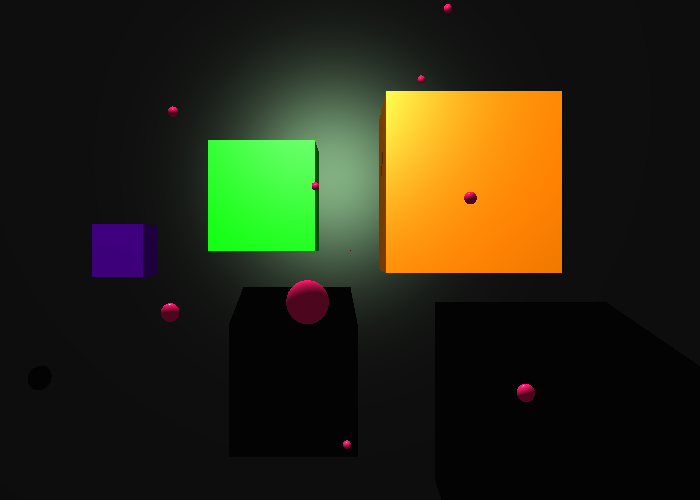
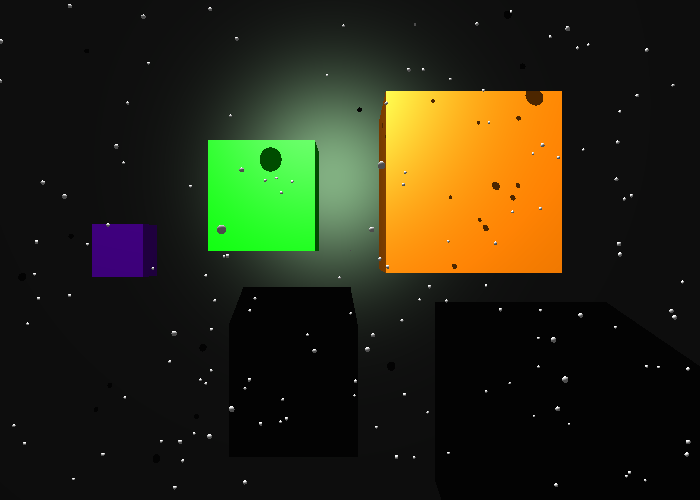
soft shadows

diff --git a/src/a4.cpp b/src/a4.cpp
@@ -191,9 +191,9 @@ void render(// What to render
 	// root->add_child(ps);
 
 	int framerate = 25;
-	const double FRAME_COUNT = 1165;//framerate * 71.7;
+	const double FRAME_COUNT = 1;//1165;//framerate * 71.7;
 	MasterTempo masterTempo = MasterTempo("../data/1.mid", 180.0, framerate, 1);
-	int SSAAFactor = 1;
+	int SSAAFactor = 2;
 	height *= SSAAFactor;
 	width *= SSAAFactor;
 
@@ -310,25 +310,29 @@ void render(// What to render
 
 		root->tick(&masterTempo);
 	}
-	
-	stringstream ss;
-	ss << "ffmpeg -i \%09d.png -framerate ";
-	ss << framerate;
-	ss << " -y -f avi -qscale 1 -s " << width/SSAAFactor << "x" << height/SSAAFactor;
-	ss << " temp.avi";
-	const char* ffmpegCommand = ss.str().c_str();
-	cout << "\n\n";
-	system(ffmpegCommand);
 
-	stringstream sa;
-	sa << "ffmpeg -i temp.avi -i audio.wav -y -f avi -b 1.5M -s " << width/SSAAFactor << "x" << height/SSAAFactor << " " << filename << ".avi";
-	const char* ffmpegAudio = sa.str().c_str();
+	if(FRAME_COUNT > 1){
 	
-	cout << "\n\n";
-	system(ffmpegAudio);
-	//system("rm *.png");
-	system("clear");
-	cout << "Render complete: " << filename << ".avi\n";
+		stringstream ss;
+		ss << "ffmpeg -i \%09d.png -framerate ";
+		ss << framerate;
+		ss << " -y -f avi -qscale 1 -s " << width/SSAAFactor << "x" << height/SSAAFactor;
+		ss << " temp.avi";
+		const char* ffmpegCommand = ss.str().c_str();
+		cout << "\n\n";
+		system(ffmpegCommand);
+
+		stringstream sa;
+		sa << "ffmpeg -i temp.avi -i audio.wav -y -f avi -b 1.5M -s " << width/SSAAFactor << "x" << height/SSAAFactor << " " << filename << ".avi";
+		const char* ffmpegAudio = sa.str().c_str();
+		
+		cout << "\n\n";
+		system(ffmpegAudio);
+		//system("rm *.png");
+		system("clear");
+		cout << "Render complete: " << filename << ".avi\n";
+
+	}
 }
 
 void applyCocaineFilter(double* rbuf, int bufheight, int bufwidth){
@@ -429,8 +433,35 @@ Vector3D shade(Vector3D fc, std::list<Light*> lights, Colour ambient, Intersecti
 			point[2] + fp2*normal[2]);
 		Vector3D pointToLight = lpos - point;
 		pointToLight.normalize();
-		Intersection* shadow = root->intersect(point2, pointToLight, Matrix4x4(), mt);
-		if(shadow == NULL){
+		//Intersection* shadow = root->intersect(point2, pointToLight, Matrix4x4(), mt);
+
+		Intersection* shadow;
+		int resolution = 50;
+		double lightSize = 40.0;
+		double spread = 0.7;
+		double shadowWeight = 0;
+		double xi, yi, zi;
+		
+
+		for(int x = 0; x < resolution; x++){
+			double xShift = (std::rand()  * spread/RAND_MAX - (spread/2)/RAND_MAX) * lightSize;
+			double yShift = (std::rand()  * spread/RAND_MAX - (spread/2)/RAND_MAX) * lightSize;
+			double zShift = (std::rand()  * spread/RAND_MAX - (spread/2)/RAND_MAX) * lightSize;
+			//for(int y = 0; y < resolution; y++){
+				//for(int z = 0; z < resolution; z++){
+					//xi = lightSize + xShift;//((double)x)/resolution;// + xShift;
+					//yi = lightSize + yShift;
+					//zi = lightSize * ((double)z)/resolution;// + zShift;
+					shadow = root->intersect(point2, Point3D(lpos[0]+xShift, lpos[1]+yShift, lpos[2]+zShift) - point2, Matrix4x4(), mt);
+					if(shadow != NULL){
+						shadowWeight += 1.0 / (resolution);//*resolution);
+						free(shadow);
+					}
+				//}
+			//}
+		}
+
+		if(shadowWeight < 1){
 			Colour lightColour = (*I)->colour;
 			Vector3D lcol = Vector3D(lightColour.R(), lightColour.G(), lightColour.B());
 	    	Vector3D iv = lpos - point; // incident vector
@@ -478,11 +509,8 @@ Vector3D shade(Vector3D fc, std::list<Light*> lights, Colour ambient, Intersecti
 	    	blinnSpec = blinnTerm * specColour;
 
 
-	    	fc = fc + diffuse + (shininess != 0 ? blinnSpec : 0*blinnSpec);
+	    	fc = fc + (1.0 - shadowWeight)*(diffuse + (shininess != 0 ? blinnSpec : 0*blinnSpec));
 	    	//fc = Vector3D(blinnSpec[0], spec[0], 0);
-	    } else {
-	    	// the light doesn't contribute to the surface
-	    	free(shadow);
 	    }
 	}
 	return fc;

diff --git a/src/primitive.cpp b/src/primitive.cpp
@@ -27,6 +27,8 @@ NonhierBox::~NonhierBox()
 {
 }
 
+NonhierTangleCube::~NonhierTangleCube(){}
+
 Intersection* Primitive::getIntersection(Point3D rayP, Vector3D rayV, Matrix4x4 trans){
   return NULL;
 }
@@ -308,6 +310,66 @@ Intersection* intersectHeightMap(Point3D rayP, Vector3D rayV, Matrix4x4 trans, P
 }
 
 Intersection* NonhierSphere::getIntersection(Point3D rayP, Vector3D rayV, Matrix4x4 trans){
+/*
+  rayV.normalize();
+
+  double roots[4];
+  double k = std::pow(rayV[0], 4) +
+             std::pow(rayV[1], 4) +
+             std::pow(rayV[2], 4);
+  k = k / 1.0001;
+  double a = 0;
+  double b = 0;
+  double c = 0;
+  double d = 0;
+  for(int i = 0; i < 3; i++){
+    a += 4 * rayV[i]*rayV[i]*rayV[i] * rayP[i];
+    b += 6 * rayV[i]*rayV[i] * rayP[i]*rayP[i];
+    c += 4 * rayV[i] * rayP[i]*rayP[i]*rayP[i] - 10*rayP[i]*rayV[i];
+    d += rayP[i]*rayP[i]*rayP[i]*rayP[i] - 5*rayP[i]*rayP[i];
+  }
+  d += 11.8;
+
+  a /= k; b /= k; c /= k; d /= k;
+
+  int rootCount = quarticRoots(a, b, c, d, roots);
+  if(rootCount == 0) return NULL;
+
+  double t = roots[0];
+  for(int i = 1; i < rootCount; i++){
+    if(roots[i] > 0 && roots[i] < t){
+      t = roots[i];
+    }
+  }
+
+  //cout << "Root count: " << rootCount << " - " << roots[0] << "\n";
+
+  if(t <= 0) return NULL;
+
+  //cout << "TESTSE";
+
+  Intersection *ans = (Intersection*)malloc(sizeof(Intersection));
+  *ans = Intersection(rayP + t*rayV, Vector3D(-0.5, 0.0, 0.5), NULL);
+  return ans;
+*/
+
+
+
+
+
+
+
+
+
+
+
+
+
+
+
+
+
+
   rayV.normalize(); // just in case
   Vector3D v = rayP - m_pos;
 
@@ -376,5 +438,40 @@ Intersection* NonhierSphere::getIntersection(Point3D rayP, Vector3D rayV, Matrix
 
   //std::cout << "\nOrigin: " << rayP << "\nNormal: " << ans->getNormal() << "\nIntersection point: " << ans->getPoint() << "\nRefraction Angle: " << rf;
 
+  return ans;
+}
+
+
+Intersection* NonhierTangleCube::getIntersection(Point3D rayP, Vector3D rayV, Matrix4x4 trans){
+  double roots[4];
+  double k = rayV[0] + rayV[1] + rayV[2];
+  double a = 0;
+  double b = 0;
+  double c = 0;
+  double d = 0;
+  for(int i = 0; i < 3; i++){
+    a += 3 * std::pow(rayV[i], 3) * rayP[i];
+    b += 6 * std::pow(rayV[i], 2) * std::pow(rayP[i], 2);
+    c += 4 * rayV[i] * std::pow(rayP[i], 3) - 10*rayP[i]*rayV[i];
+    d += std::pow(rayP[i], 4) - 5*std::pow(rayP[i], 2);
+  }
+  d += 11.8;
+
+  a /= k; b /= k; c /= k; d /= k;
+
+  int rootCount = quarticRoots(a, b, c, d, roots);
+  if(rootCount == 0) return NULL;
+
+  double t = 0;
+  for(int i = 0; i < rootCount; i++){
+    if(roots[i] > 0 && roots[i] < t){
+      t = roots[i];
+    }
+  }
+
+  if(t <= 0) return NULL;
+
+  Intersection *ans = (Intersection*)malloc(sizeof(Intersection));
+  *ans = Intersection(rayP + t*rayV, Vector3D(-0.5, 0.0, 0.5), NULL);
   return ans;
 }

diff --git a/src/scene.cpp b/src/scene.cpp
@@ -35,6 +35,8 @@ Intersection* SceneNode::intersect(Point3D rayP, Vector3D rayV, Matrix4x4 trans,
         if(tcol->hasTexture()){
           col->setTexture(tcol->getTexture());
           col->setTextureUV(tcol->getU(), tcol->getV());
+        } else {
+          col->clearTexture();
         }
       }
 
@@ -121,10 +123,22 @@ Intersection* GeometryNode::intersect(Point3D rayP, Vector3D rayV, Matrix4x4 tra
       m_material->setKD(Colour(0.5, 0.7, 0.5));
     }
   }
+
   Intersection* inter = m_primitive->getIntersection(rayP, rayV, trans);
+
   if(inter == NULL) return NULL;
+  
+
+  if(std::strcmp(m_name.c_str(), "s1") == 0){
+    inter->setRefraction(true);
+    Vector3D rf = refraction(1.6, inter->getNormal(), rayP, inter->getPoint());
+    inter->setRefAngle(rf);
+  }
+
+
+  
   inter->setMaterial(m_material);
-  if(m_texture != NULL){
+  if(m_texture != NULL && (!hasMidiTrigger() || mt->getNoteStatus(getMidiTrigger()))){
     double u = inter->getU();
     double v = inter->getV();
     inter->setTexture(m_texture->getUV(u, v));
@@ -139,7 +153,11 @@ ParticleSystem::ParticleSystem(const std::string& name, Vector3D gravity, Point3
 }
 
 void ParticleSystem::tick(MasterTempo* mt){
-  int newParticleCount = (int)((std::rand()%2)*(std::rand()%2)*(std::rand()%2));//((int)(1.0/spawnDensity)));
+  int newParticleCount = 0;
+  while(std::rand() < spawnDensity * RAND_MAX){
+    newParticleCount++;
+    //cout << std::rand() << " _ " << spawnDensity << " * " << RAND_MAX << "\n";
+  }
   for(int i = 0; i < newParticleCount; i++){
     double xrand = (double)std::rand() * spawnZoneSize;
     double yrand = 0.01 * (double)std::rand() * spawnZoneSize;
@@ -153,9 +171,9 @@ void ParticleSystem::tick(MasterTempo* mt){
     int lifespan = 300;
     int midiNote = 6 + std::rand()%2;
     double minSize = 0;
-    double maxSize = 10;
-    double attack = 10;
-    double release = 1;
+    double maxSize = 2;
+    double attack = 2;
+    double release = 0.4;
     Particle particle(startPosition, direction, lifespan, midiNote, minSize, maxSize, attack, release);
     particles.push_front(particle);
   }
@@ -218,7 +236,7 @@ Intersection* ParticleSystem::intersect(Point3D rayP, Vector3D rayV, Matrix4x4 t
     // r /= RAND_MAX;
     // g /= RAND_MAX;
     // b /= RAND_MAX;
-    PhongMaterial* mat = new PhongMaterial(Colour(1,0.1,0.3), Colour(1,1,1), 200.0);
+    PhongMaterial* mat = new PhongMaterial(Colour(1,1,1), Colour(1,1,1), 200.0);
     col->setMaterial(mat);
   }
   return col;

diff --git a/src/primitive.hpp b/src/primitive.hpp
@@ -33,6 +33,7 @@ public:
   Vector3D getTexture(){return texture;};
   double getU(){return u;};
   double getV(){return v;};
+  void clearTexture(){ht = false;};
 
 private:
   Point3D p;
@@ -90,6 +91,20 @@ public:
 private:
   Point3D m_pos;
   double m_size;
+};
+
+class NonhierTangleCube : public Primitive {
+public:
+  NonhierTangleCube(const Point3D& pos, double radius) :
+    m_pos(pos), m_radius(radius){}
+
+  virtual ~NonhierTangleCube();
+
+  virtual Intersection* getIntersection(Point3D rayP, Vector3D rayV, Matrix4x4 trans);
+
+private:
+  Point3D m_pos;
+  double m_radius;
 };
 
 #endif

diff --git a/src/scene.hpp b/src/scene.hpp
@@ -105,11 +105,21 @@ public:
 
   void set_texture(Texture* texture){
     m_texture = texture;
+    m_trigger = -1;
   }
+
+  void set_texture(Texture* texture, int trigger){
+    m_texture = texture;
+    m_trigger = trigger;
+  }
+
+  bool hasMidiTrigger(){return (m_trigger != -1);};
+  int getMidiTrigger(){return m_trigger;};
 
 protected:
   Material* m_material;
   Texture* m_texture;
+  int m_trigger;
   Primitive* m_primitive;
 };
 

diff --git a/src/scene_lua.cpp b/src/scene_lua.cpp
@@ -504,7 +504,10 @@ int gr_node_set_texture_cmd(lua_State* L)
 
   Texture* texture = matdata->texture;
 
-  self->set_texture(texture);
+  double trigger = luaL_checknumber(L, 3);
+
+  if(trigger >= 0 && trigger <= 128) self->set_texture(texture, (int)trigger);
+  else self->set_texture(texture);
 
   return 0;
 }

diff --git a/README.md b/README.md
@@ -4,7 +4,7 @@ Fab's Raytracer
 Objectives:
 
 1. ~~Texture mapping~~
-2. Volumetric lighting
+2. ~~Volumetric lighting~~
 3. Height mapping [IN PROGRESS]
 4. ~~Post-processing filter~~
 5. ~~Refraction~~
@@ -15,6 +15,12 @@ Objectives:
 10. 4th degree implicit surface primitive with genus > 0
 
 A ray tracer written for CS488, to be extended as a final project due Dec 1st 2014, I'm keeping progress logs below:
+
+# November 29th - 4:15pm
+
+Soft shadows are done but they're taking way too long to render, I don't think I'll be able to use them as is in the final video. If I cast less than around 25 rays, the shadows look noisy (and that's with SSAAx2 enabled). Here I'm casting 50 rays per point with SSAAx2. It took 33 seconds to render the frame.. welp, at least there goes volumetric lighting (sort of).
+
+![Alt text](/samples/samplesoftshadow.png?raw=true "Sample soft shadow");
 
 # November 28th - 12:40am
 
